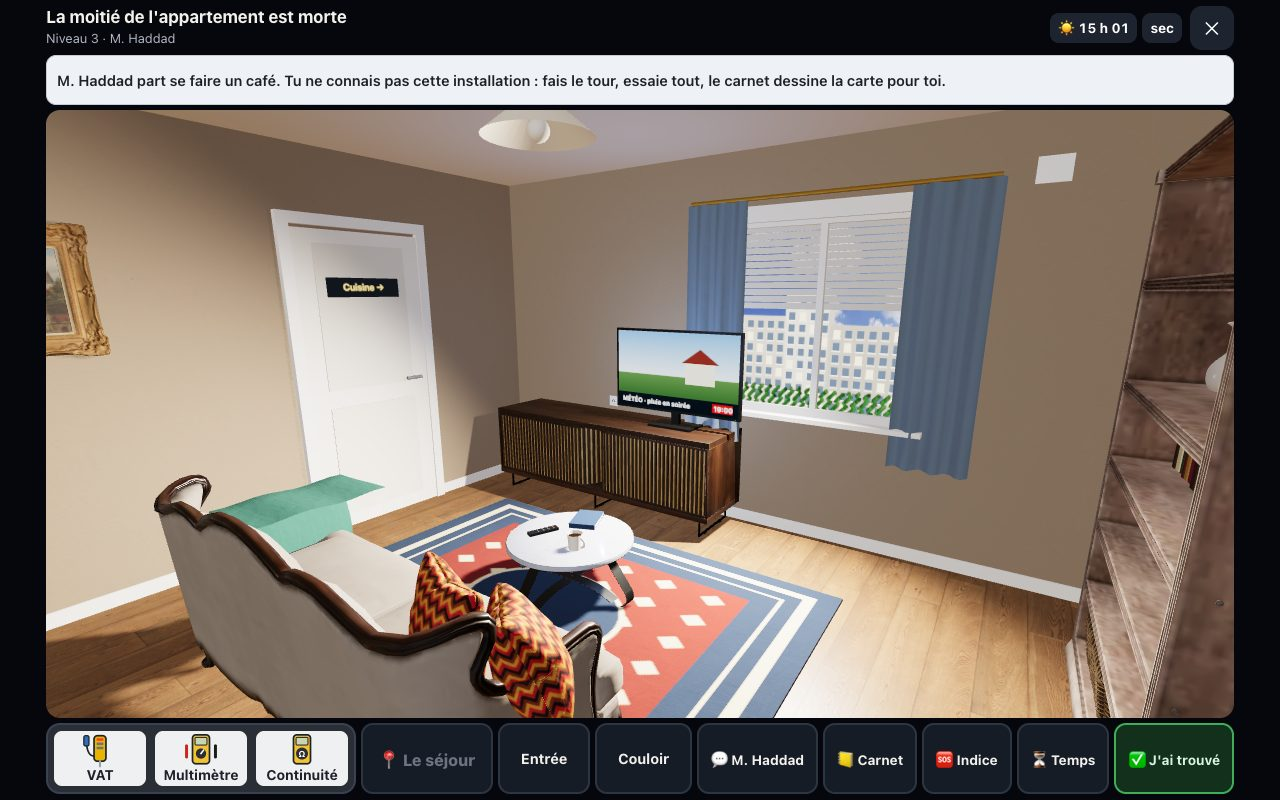
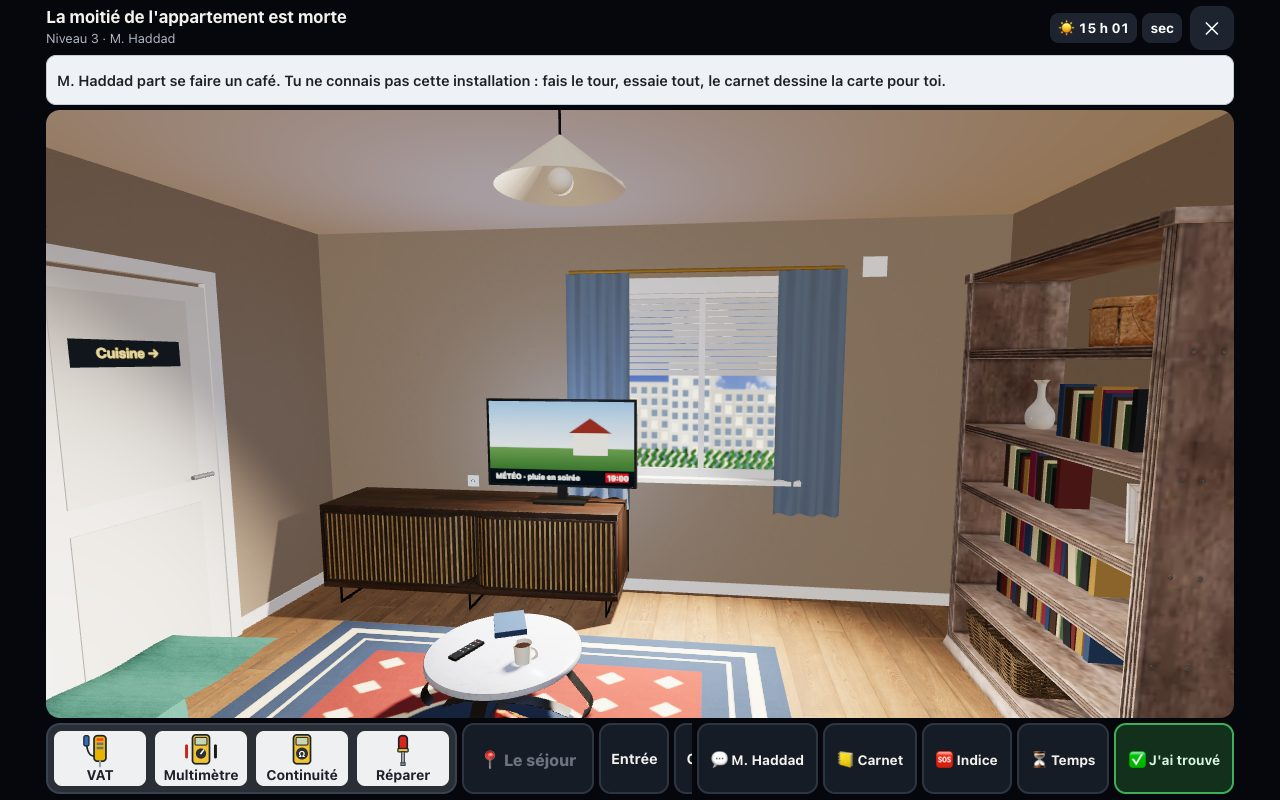
Atelier 3D, niveaux 2 et 3 : défauts relevés à la visite (tâche 12.7)
- arrivée dans chaque lieu : caméra droite, reculée ; séjours (bibliothèque), cuisine, salle de bain et entrée du niveau 3 recadrés
- torchon accroché au meuble (il flottait), réfrigérateur avec poignées et joints, patères et meuble à chaussures visibles à l'arrivée
- fenêtres : un flou léger, et une vue propre à la maison du niveau 6

diff --git a/atelier/3d/niveau/decor.js b/atelier/3d/niveau/decor.js
@@ -66,7 +66,7 @@ export function creerDecor({ base, M, mat, boite, cyl, cible, pbr, P, inst, sour
       g.save(); g.beginPath(); g.moveTo(300, 296); g.lineTo(330, 296); g.lineTo(470, 512); g.lineTo(250, 512); g.closePath(); g.clip(); if (gravier) { g.fillStyle = g.createPattern(gravier, "repeat"); g.fillRect(0, 290, 512, 230); } else { g.fillStyle = "#b9ad98"; g.fillRect(0, 290, 512, 230); } g.restore();
       const om = g.createLinearGradient(0, 296, 0, 512); om.addColorStop(0, "rgba(255,255,255,0.18)"); om.addColorStop(1, "rgba(0,0,0,0.22)"); g.fillStyle = om; g.fillRect(0, 296, 512, 216);
       g.fillStyle = "#23272c"; g.fillRect(412, 372, 9, 52); g.fillStyle = "#f2efe2"; g.fillRect(410, 362, 13, 12); g.fillStyle = "#23272c"; g.fillRect(408, 358, 17, 5);
-      T.t.needsUpdate = true;
+      flouter(T, 1.2);
     });
     return T;
   }
@@ -96,7 +96,7 @@ export function creerDecor({ base, M, mat, boite, cyl, cible, pbr, P, inst, sour
   function vueVille() {
     if (ville) return ville;
     const T = (ville = toile(512, 512)), g = T.g; g.fillStyle = "#cfe3f7"; g.fillRect(0, 0, 512, 512);
-    const im = new Image(); im.onload = () => { g.drawImage(im, 60, 90, 360, 200, 0, 0, 512, 512); dessin(); T.t.needsUpdate = true; }; im.onerror = () => { dessin(); T.t.needsUpdate = true; }; im.src = `${base}../textures/ciel_jour.jpg`;
+    const im = new Image(); im.onload = () => { g.drawImage(im, 60, 90, 360, 200, 0, 0, 512, 512); dessin(); flouter(T, 1.4); }; im.onerror = () => { dessin(); flouter(T, 1.4); }; im.src = `${base}../textures/ciel_jour.jpg`;
     const dessin = () => {
       for (const [x, y, w, c] of [[-20, 250, 190, "#b9b2a4"], [150, 190, 150, "#c9c3b6"], [290, 270, 250, "#a9a396"]]) {
         g.fillStyle = c; g.fillRect(x, y, w, 512 - y); g.fillStyle = "rgba(0,0,0,0.12)"; g.fillRect(x + w - 16, y, 16, 512 - y);
@@ -105,6 +105,23 @@ export function creerDecor({ base, M, mat, boite, cyl, cible, pbr, P, inst, sour
       for (let i = 0; i < 900; i++) { g.fillStyle = `hsl(${95 + (i % 30)}, 38%, ${18 + (i % 16)}%)`; g.beginPath(); g.ellipse((i * 131) % 512, 455 + ((i * 53) % 60), 7, 5, i, 0, 7); g.fill(); }
     };
     dessin(); T.t.needsUpdate = true; return T;
+  }
+  // un flou léger sur ce qu'on voit dehors : la vitre et la distance (sans effet sur les navigateurs qui ne le gèrent pas)
+  const flouter = (T, px = 1.6) => { try { const c2 = document.createElement("canvas"); c2.width = T.c.width; c2.height = T.c.height; const g2 = c2.getContext("2d"); g2.filter = `blur(${px}px)`; g2.drawImage(T.c, 0, 0); T.g.drawImage(c2, 0, 0); } catch { /* rien */ } T.t.needsUpdate = true; };
+  // la vue de la maison de M. Girard (niveau 6) : un lotissement, des toits, une haie, la rue
+  let campagne = null;
+  function vueCampagne() {
+    if (campagne) return campagne;
+    const T = (campagne = toile(512, 512)), g = T.g, ciel = g.createLinearGradient(0, 0, 0, 300); ciel.addColorStop(0, "#9cc4ee"); ciel.addColorStop(1, "#e6f0f8"); g.fillStyle = ciel; g.fillRect(0, 0, 512, 512);
+    for (let i = 0; i < 7; i++) { g.fillStyle = "rgba(255,255,255,0.75)"; g.beginPath(); g.ellipse(40 + i * 75, 60 + ((i * 37) % 70), 46, 15, 0, 0, 7); g.fill(); }
+    g.fillStyle = "#8aa58a"; g.beginPath(); g.moveTo(0, 270); for (let x = 0; x <= 512; x += 32) g.lineTo(x, 252 + Math.sin(x * 0.02) * 16); g.lineTo(512, 330); g.lineTo(0, 330); g.fill();
+    for (const [x, w, h, mur, toit] of [[20, 120, 70, "#e9e2d2", "#8a4a3a"], [170, 150, 84, "#f2ead8", "#5d5f66"], [350, 130, 66, "#e2d9c6", "#8a4a3a"]]) {
+      const y = 330 - h; g.fillStyle = mur; g.fillRect(x, y, w, h); g.fillStyle = toit; g.beginPath(); g.moveTo(x - 10, y); g.lineTo(x + w / 2, y - 46); g.lineTo(x + w + 10, y); g.fill();
+      g.fillStyle = "#5d6d80"; for (let k = 0; k < 2; k++) g.fillRect(x + 18 + k * (w - 58), y + 18, 22, 24); g.fillStyle = "#6b4a3a"; g.fillRect(x + w / 2 - 9, y + h - 34, 18, 34);
+    }
+    g.fillStyle = "#2f4a2a"; g.fillRect(0, 322, 512, 30); for (let i = 0; i < 700; i++) { g.fillStyle = `hsl(${100 + (i % 30)}, 36%, ${18 + (i % 14)}%)`; g.beginPath(); g.ellipse((i * 131) % 512, 318 + ((i * 53) % 34), 6, 4, i, 0, 7); g.fill(); }
+    g.fillStyle = "#6f7a5a"; g.fillRect(0, 352, 512, 60); g.fillStyle = "#8d8f92"; g.fillRect(0, 412, 512, 100); g.fillStyle = "#e6e2d6"; for (let x = 10; x < 512; x += 90) g.fillRect(x, 458, 46, 6);
+    flouter(T); return T;
   }
   const hhmm = (h) => { const m = Math.round(h * 60) % 1440; return `${String(Math.floor(m / 60)).padStart(2, "0")}:${String(m % 60).padStart(2, "0")}`; };
 
@@ -119,7 +136,7 @@ export function creerDecor({ base, M, mat, boite, cyl, cible, pbr, P, inst, sour
       const w = o.w || 1.1, h = o.h || 1.2, pvc = mat(0xf3f1ec, { roughness: 0.45 });
       for (const [bw, bh, x, y] of [[w + 0.1, 0.06, 0, h / 2 + 0.02], [w + 0.1, 0.06, 0, -h / 2 - 0.02], [0.06, h, -w / 2 - 0.02, 0], [0.06, h, w / 2 + 0.02, 0], [0.04, h, 0, 0]]) { const b = boite(bw, bh, 0.05, pvc); b.position.set(x, y, 0.02); g.add(b); }
       const appui = boite(w + 0.24, 0.03, 0.14, pvc); appui.position.set(0, -h / 2 - 0.06, 0.06); g.add(appui);
-      const T = o.vue === "nuit" ? vueNuit() : o.vue === "ville" ? vueVille() : vueJardin();
+      const T = o.vue === "nuit" ? vueNuit() : o.vue === "ville" ? vueVille() : o.vue === "campagne" ? vueCampagne() : vueJardin();
       const vitre = new THREE.Mesh(new THREE.PlaneGeometry(w, h), new THREE.MeshBasicMaterial({ map: T.t })); vitre.position.z = 0.012; g.add(vitre);
       if (o.vue !== "nuit") temoins.push((r, e, lc, nuit) => { vitre.material.color.setScalar(nuit ? 0.035 : 1.7); });
       if (o.volet) { // volet roulant à moitié baissé : des lames, devant la vitre
@@ -482,9 +499,11 @@ tele(o, lieuId, lieu, G, g) { // écran plat sur pied
       temoins.push((r, e) => aff(r.alimente(inst.mobile[o.id].prise) ? (r.fonctionne(o.id) ? "1:30" : hhmm(e.env.heure)) : "")); zone(g, 0.52, 0.3, 0.4, 0.15, o.id, lieuId);
     },
     frigo(o, lieuId, lieu, G, g) {
-      const inox = mat(0xc9ccd0, { metalness: 0.75, roughness: 0.32 }), w = 0.6, d = 0.62;
+      const inox = mat(0xaeb3b9, { metalness: 0.8, roughness: 0.38 }), w = 0.6, d = 0.62;
       const bas = boite(w, 1.08, d, inox); bas.position.y = 0.59; g.add(bas); const hautF = boite(w, 0.62, d, inox); hautF.position.y = 1.46; g.add(hautF); const socle = boite(w - 0.04, 0.05, d - 0.06, M.noir); socle.position.y = 0.025; g.add(socle);
-      for (const y of [0.95, 1.3]) { const p = boite(0.025, 0.3, 0.03, M.acier); p.position.set(-w / 2 + 0.06, y, d / 2 + 0.02); g.add(p); }
+      for (const [y, h] of [[0.86, 0.46], [1.36, 0.3]]) { const p = boite(0.03, h, 0.035, mat(0x3a3f46, { metalness: 0.6, roughness: 0.4 })); p.position.set(-w / 2 + 0.06, y, d / 2 + 0.022); g.add(p); }
+      // les joints des deux portes : un filet sombre entre elles et sur le pourtour
+      for (const [jw, jh, x, y] of [[w, 0.012, 0, 1.14], [0.008, 1.7, -w / 2 + 0.004, 0.92], [0.008, 1.7, w / 2 - 0.004, 0.92]]) { const j = boite(jw, jh, 0.004, M.noir); j.castShadow = false; j.position.set(x, y, d / 2 + 0.001); g.add(j); }
       const aff = ecran(g, 0.07, 0.026, 0.12, 1.66, d / 2 + 0.002, "#9fd8ff"); temoins.push((r) => aff(r.fonctionne(o.id) ? "4°C" : ""));
       for (let i = 0; i < 3; i++) { const a = boite(0.05, 0.05, 0.002, mat([0xe9b400, 0xc8261e, 0x2f6fd0][i])); a.position.set(-0.1 + i * 0.12, 1.4 - i * 0.07, d / 2 + 0.002); a.rotation.z = (i - 1) * 0.12; g.add(a); }
       zone(g, w, 1.8, d, 0.9, o.id, lieuId);

diff --git a/atelier/3d/niveau/niveau3.js b/atelier/3d/niveau/niveau3.js
@@ -118,9 +118,9 @@ export default {
     lieux: {
       // L'appartement de M. Haddad, infirmier de nuit : il dort le jour (volets à moitié baissés), sa tenue attend sur une chaise,
       // sa tasse de café traîne. Les prises, interrupteurs, boîtes et portes sont là où le câblage les met.
-      entree: { nom: "l'entrée", court: "L'entrée", raccourci: "Entrée", taille: [2.6, 2.6], sol: "bois", objets: [
-        { t: "tableau", mur: "N", u: 0.2, y: 1.45 }, { t: "inter", id: "int_entree", mur: "N", u: -0.9, y: 1.1 }, { t: "plafonnier", id: "pl_entree" }, { t: "prise", id: "pc_entree", mur: "O", u: 0.3, y: 0.75 }, porte("couloir", "E", 0.2),
-        { t: "porteEntree", mur: "S", u: 0, y: 0 }, { t: "portemanteau", mur: "O", u: -0.72, y: 1.74 }, { t: "chaussures", mur: "O", u: -0.72, y: 0 },
+      entree: { nom: "l'entrée", court: "L'entrée", raccourci: "Entrée", taille: [2.6, 2.6], sol: "bois", camera: [0.8, 1.62, 0.85], yaw: 0.8, pitch: -0.08, objets: [
+        { t: "tableau", mur: "N", u: 0.2, y: 1.45 }, { t: "inter", id: "int_entree", mur: "N", u: -0.9, y: 1.1 }, { t: "plafonnier", id: "pl_entree" }, { t: "prise", id: "pc_entree", mur: "O", u: -0.85, y: 0.75 }, porte("couloir", "E", 0.2),
+        { t: "porteEntree", mur: "S", u: 0, y: 0 }, { t: "portemanteau", mur: "O", u: 0.2, y: 1.74 }, { t: "chaussures", mur: "O", u: 0.2, y: 0 },
         { t: "tapis", x: 0, z: 0.1, w: 1.5, d: 1.1, couleurs: ["#3f5a4a", "#e2d3ae", "#2f3f55"] },
         { t: "modele", f: "ClassicConsole_01", x: 1.14, z: -0.82, r: -Math.PI / 2, s: 0.6, avec: [
           { t: "cles", x: -0.28, y: 0.572, z: 0.03 }, { t: "courrier", x: 0, y: 0.572, z: 0.02 }, { t: "modele", f: "standing_picture_frame_01", x: 0.28, y: 0.572, z: -0.03, r: -0.3, s: 0.85 } ] },
@@ -132,7 +132,7 @@ export default {
         { t: "tapis", x: -0.1, z: 0, w: 3.9, d: 0.72, couleurs: ["#6b2a26", "#d9c9a3", "#2f3f55"] },
         { t: "modele", f: "fancy_picture_frame_02", mur: "N", u: 1.32, y: 1.62, auMur: true, s: 0.45 }, { t: "modele", f: "fancy_picture_frame_01", mur: "S", u: 1.45, y: 1.62, auMur: true, s: 0.5 },
         { t: "modele", f: "hanging_picture_frame_03", mur: "N", u: -2.0, y: 1.62, auMur: true, s: 0.75 }, { t: "modele", f: "potted_plant_01", x: -2.32, z: 0.6, h: 0.7, sansOmbre: true } ] },
-      sejour: { nom: "le séjour", court: "Le séjour", raccourci: "Séjour", taille: [4.6, 4], sol: "bois", camera: [1.45, 1.62, 1.5], yaw: 0.6, pitch: -0.22, objets: [
+      sejour: { nom: "le séjour", court: "Le séjour", raccourci: "Séjour", taille: [4.6, 4], sol: "bois", camera: [0.45, 1.62, 1.7], yaw: 0.12, pitch: -0.1, objets: [
         { t: "inter", id: "int_sejour", mur: "S", u: -1.4, y: 1.1 }, { t: "plafonnier", id: "pl_sejour" }, { t: "prise", id: "pc_sejour1", mur: "N", u: -1.2, y: 0.75 }, { t: "prise", id: "pc_sejour2", mur: "E", u: 0.8, y: 0.75 }, { t: "boite", id: "bd_a", mur: "N", u: 1.5, y: 2.2 },
         porte("couloir", "S", 0.8), porte("cuisine", "O", 0.6),
         { t: "fenetre", mur: "N", u: 0.42, y: 1.45, w: 1.05, h: 1.15, vue: "ville", volet: 0.45, rideaux: 0x6f7f8f },
@@ -146,7 +146,7 @@ export default {
           { t: "livres", x: 0.2, y: 1.28, w: 0.7, z: 0.02, g: 6, n: 14 }, { t: "modele", f: "ceramic_vase_01", x: -0.38, y: 1.28, z: 0.03, s: 0.6 }, { t: "modele", f: "wicker_basket_02", x: 0.2, y: 1.66, z: 0.02 }, { t: "modele", f: "wicker_basket_01", x: -0.25, y: 0.11, z: 0.05, s: 1.5 } ] },
         { t: "modele", f: "fancy_picture_frame_02", mur: "O", u: -1.0, y: 1.62, auMur: true, s: 0.8 }, { t: "modele", f: "wall_clock", mur: "S", u: -0.45, y: 1.95, auMur: true },
         { t: "modele", f: "potted_plant_02", x: -1.95, z: 1.6, h: 0.85, sansOmbre: true } ] },
-      cuisine: { nom: "la cuisine", court: "La cuisine", raccourci: "Cuisine", taille: [3, 2.8], sol: "carrelage", camera: [0.5, 1.62, 0.95], yaw: 0.28, pitch: -0.2, objets: [
+      cuisine: { nom: "la cuisine", court: "La cuisine", raccourci: "Cuisine", taille: [3, 2.8], sol: "carrelage", camera: [0.3, 1.62, 1.1], yaw: 0, pitch: -0.1, objets: [
         { t: "inter", id: "int_cuisine", mur: "E", u: -0.3, y: 1.1 }, { t: "plafonnier", id: "pl_cuisine" }, { t: "prise", id: "pc_cuisine1", mur: "N", u: -0.9, y: 1.15 }, { t: "prise", id: "pc_cuisine2", mur: "N", u: -0.2, y: 1.15 }, { t: "prise", id: "pc_cuisine3", mur: "O", u: 0.6, y: 1.15 },
         porte("sejour", "E", 0.7),
         { t: "cuisine", mur: "N", u: 0, y: 0, x0: -1.5, segments: [{ k: "bas", w: 0.6, haut: true }, { k: "evier", w: 0.8 }, { k: "tiroirs", w: 0.6, haut: true }, { k: "vide", w: 0.55, hotte: true }] },
@@ -155,7 +155,7 @@ export default {
         { t: "frigo", id: "refrigerateur", x: -1.18, z: 0.42, r: Math.PI / 2 },
         { t: "modele", f: "round_wooden_table_01", x: -0.42, z: 1.0, e: [0.5, 0.75, 0.5], avec: [ { t: "tasse", x: 0.08, y: 0.753, z: 0.05, c: 0x2f5a6b }, { t: "modele", f: "plastic_thermos", x: -0.12, y: 0.753, z: -0.08, s: 0.9 }, { t: "modele", f: "wooden_bowl_02", x: -0.05, y: 0.753, z: 0.16, s: 1.2 } ] },
         { t: "modele", f: "painted_wooden_chair_02", x: 0.02, z: 1.12, r: -Math.PI / 2 - 0.3, s: 0.74 },
-        { t: "modele", f: "pot_enamel_01", x: 0.2, y: 0.93, z: -1.1 }, { t: "modele", f: "jug_01", x: -1.25, y: 0.92, z: -1.15, r: 0.6 }, { t: "torchon", mur: "E", u: -0.85, y: 1.2 } ] },
+        { t: "modele", f: "pot_enamel_01", x: 0.2, y: 0.93, z: -1.1 }, { t: "modele", f: "jug_01", x: -1.25, y: 0.92, z: -1.15, r: 0.6 }, { t: "torchon", x: -0.6, y: 0.62, z: -0.785 } ] },
       chambre1: { nom: "la chambre 1", court: "La chambre 1", raccourci: "Chambre 1", taille: [3.2, 3.2], sol: "bois", camera: [0.85, 1.62, 1.1], yaw: 0.4, pitch: -0.2, objets: [
         { t: "inter", id: "int_chambre1", mur: "S", u: 0.6, y: 1.1 }, { t: "plafonnier", id: "pl_chambre1" }, { t: "prise", id: "pc_chambre1", mur: "N", u: 0.9, y: 0.75 }, porte("couloir", "S", -0.7),
         { t: "fenetre", mur: "O", u: 0.25, y: 1.45, w: 1.0, h: 1.15, vue: "ville", volet: 0.7, rideaux: 0x4f5d73 },
@@ -176,7 +176,7 @@ export default {
         { t: "modele", f: "cardboard_box_01", x: -1.15, z: -1.2, r: 0.3 }, { t: "modele", f: "cardboard_box_01", x: -1.1, y: 0.3, z: -1.22, r: -0.2, s: 0.8 },
         { t: "tapis", x: 0.25, z: 0.2, w: 1.5, d: 1.1, couleurs: ["#2f3f55", "#d9c9a3", "#3f5a4a"] },
         { t: "modele", f: "fancy_picture_frame_01", mur: "S", u: 0.3, y: 1.62, auMur: true, s: 0.55 } ] },
-      sdb: { nom: "la salle de bain", court: "La salle de bain", raccourci: "Salle de bain", taille: [2.4, 2.4], sol: "carrelage", teinte: 0xdce8ea, camera: [-0.2, 1.62, -0.75], yaw: Math.PI, pitch: -0.2, objets: [
+      sdb: { nom: "la salle de bain", court: "La salle de bain", raccourci: "Salle de bain", taille: [2.4, 2.4], sol: "carrelage", teinte: 0xdce8ea, camera: [-0.45, 1.62, -0.85], yaw: -2.25, pitch: -0.1, objets: [
         { t: "inter", id: "int_sdb", mur: "N", u: 0.9, y: 1.1 }, { t: "plafonnier", id: "pl_sdb" }, { t: "boite", id: "bd_sdb", mur: "S", u: 0, y: 2.25, w: 0.1, h: 0.1 }, { t: "prise", id: "pc_sdb", mur: "E", u: 0.5, y: 1.2 }, { t: "prise", id: "pc_lavelinge", mur: "O", u: -0.6, y: 1.2 },
         porte("couloir", "N", -0.2),
         // la douche est au milieu du mur du fond, à distance des deux prises

diff --git a/atelier/3d/niveau/niveau6.js b/atelier/3d/niveau/niveau6.js
@@ -216,10 +216,10 @@ export default {
         porte("entree", "E", 0), porte("sejour", "N", 0.5), porte("chambre1", "N", -1.0), porte("chambre2", "O", 0),
         { t: "tapis", x: -0.1, z: 0, w: 3.6, d: 0.72, couleurs: ["#2f3f55", "#d9c9a3", "#7a2f2a"] }, { t: "peintres", x: 2.05, z: 0.55, r: 2.2 },
         { t: "modele", f: "fancy_picture_frame_02", mur: "S", u: 1.6, y: 1.62, auMur: true, s: 0.45 }, { t: "modele", f: "cardboard_box_01", x: -2.2, z: 0.55, r: 0.2, h: 0.3 } ] },
-      sejour: { nom: "le séjour", court: "Le séjour", raccourci: "Séjour", taille: [4.4, 3.8], sol: "bois", camera: [1.4, 1.62, 1.4], yaw: 0.6, pitch: -0.22, objets: [
+      sejour: { nom: "le séjour", court: "Le séjour", raccourci: "Séjour", taille: [4.4, 3.8], sol: "bois", camera: [0.45, 1.62, 1.6], yaw: 0.12, pitch: -0.1, objets: [
         { t: "inter", id: "int_sejour", mur: "S", u: -1.3, y: 1.1 }, { t: "plafonnier", id: "pl_sejour" }, { t: "prise", id: "pc_sejour1", mur: "N", u: -1.2, y: 0.75 }, { t: "prise", id: "pc_sejour2", mur: "E", u: 0.8, y: 0.75 }, { t: "boite", id: "bd_sej", mur: "N", u: 1.5, y: 2.2 },
         porte("couloir", "S", 0.8),
-        { t: "fenetre", mur: "N", u: 0.4, y: 1.45, w: 1.05, h: 1.15, rideaux: 0x8a6a44 },
+        { t: "fenetre", mur: "N", u: 0.4, y: 1.45, w: 1.05, h: 1.15, vue: "campagne", rideaux: 0x8a6a44 },
         { t: "tapis", x: -0.45, z: -0.3, w: 2.5, d: 1.8, couleurs: ["#6b2a26", "#d9c9a3", "#2f3f55"] },
         { t: "modele", f: "modern_wooden_cabinet", x: -1.05, z: -1.66, e: [0.8, 1, 1], avec: [ { t: "modele", f: "ceramic_vase_01", x: 0.5, y: 0.68, z: 0, s: 0.8 }, { t: "livre", x: 0.1, y: 0.68, z: 0.05, r: 0.3 } ] },
         { t: "modele", f: "sofa_03", x: -0.45, z: 0.5, r: Math.PI, avec: [ { t: "plaid", x: 1.22, y: 0.7, z: 0.1, r: Math.PI / 2, c: 0x8a6a44 } ] },
@@ -228,14 +228,14 @@ export default {
         { t: "modele", f: "potted_plant_02", x: -1.85, z: 1.5, h: 0.85, sansOmbre: true } ] },
       chambre1: { nom: "la chambre 1", court: "La chambre 1", raccourci: "Chambre 1", taille: [3.2, 3.2], sol: "bois", camera: [0.85, 1.62, 1.1], yaw: 0.4, pitch: -0.2, objets: [
         { t: "inter", id: "int_chambre1", mur: "S", u: 0.6, y: 1.1 }, { t: "plafonnier", id: "pl_chambre1" }, { t: "prise", id: "pc_chambre1", mur: "N", u: 0.9, y: 0.75 }, { t: "boite", id: "bd_ch", mur: "E", u: 0.9, y: 2.2 }, porte("couloir", "S", -0.7),
-        { t: "fenetre", mur: "O", u: 0.25, y: 1.45, w: 1.0, h: 1.15, rideaux: 0x5d6f5a },
+        { t: "fenetre", mur: "O", u: 0.25, y: 1.45, w: 1.0, h: 1.15, vue: "campagne", rideaux: 0x5d6f5a },
         { t: "lit", x: -0.6, z: -0.62, w: 1.4, couette: 0x8a6a44, plaid: 0x3f5a4a },
         { t: "modele", f: "painted_wooden_nightstand", x: 0.38, z: -1.33, h: 0.55, avec: [ { t: "lampeChevet", x: -0.06, y: 0.55, z: -0.05, c: 0x3f5a4a }, { t: "livre", x: 0.1, y: 0.55, z: 0.08, r: 0.2 } ] },
         { t: "modele", f: "vintage_wooden_drawer_01", x: 1.33, z: -0.45, r: -Math.PI / 2, e: [0.62, 0.78, 0.5] }, { t: "tapis", x: 0.45, z: 0.3, w: 1.5, d: 1.0, couleurs: ["#3f5a4a", "#e2d3ae", "#7a2f2a"] } ] },
       chambre2: { nom: "la chambre 2", court: "La chambre 2", raccourci: "Chambre 2", taille: [3, 3.2], sol: "bois", objets: [
         { t: "inter", id: "int_chambre2", mur: "E", u: 0.9, y: 1.1 }, { t: "plafonnier", id: "pl_chambre2" }, { t: "prise", id: "pc_chambre2", mur: "N", u: -0.8, y: 0.75 }, porte("couloir", "E", -0.2),
         // la chambre en travaux : bâche, pots, escabeau remplacé par une table de tapissier, cartons
-        { t: "fenetre", mur: "N", u: 0.45, y: 1.55, w: 0.9, h: 0.95, rideaux: false },
+        { t: "fenetre", mur: "N", u: 0.45, y: 1.55, w: 0.9, h: 0.95, vue: "campagne", rideaux: false },
         { t: "modele", f: "wooden_table_02", x: 0.4, z: -1.0, avec: [ { t: "modele", f: "metal_toolbox", x: -0.25, y: 0.8, z: 0 }, { t: "modele", f: "oil_tin", x: 0.3, y: 0.8, z: 0.05 } ] },
         { t: "peintres", x: -0.9, z: 0.4, r: 0.6 }, { t: "peintres", x: 0.9, z: 0.8, r: -1.2 }, { t: "modele", f: "cardboard_box_01", x: -1.15, z: -1.2, r: 0.3 }, { t: "modele", f: "cardboard_box_01", x: -1.1, y: 0.3, z: -1.22, r: -0.2, s: 0.8 },
         { t: "modele", f: "steel_frame_shelves_03", x: -1.26, z: 0.9, r: Math.PI / 2, s: 0.6 } ] },

diff --git a/atelier/3d/niveau/niveau4.js b/atelier/3d/niveau/niveau4.js
@@ -140,7 +140,7 @@ export default {
         { t: "modele", f: "ornate_mirror_01", mur: "E", u: -0.7, y: 1.45, auMur: true, s: 0.9 }, { t: "modele", f: "fancy_picture_frame_01", mur: "N", u: 0.1, y: 1.62, auMur: true, s: 0.5 },
         { t: "modele", f: "rubber_boots", x: 0.85, z: 1.22, s: 0.9, e: [0.55, 1, 1], r: Math.PI } ] },
       // le séjour et la cuisine : la famille vit en bas ; la plaque de cuisson du tableau est ici
-      sejour: { nom: "le séjour", court: "Le séjour", raccourci: "Séjour", taille: [4.6, 4], sol: "bois", camera: [1.45, 1.62, 1.5], yaw: 0.6, pitch: -0.22, objets: [
+      sejour: { nom: "le séjour", court: "Le séjour", raccourci: "Séjour", taille: [4.6, 4], sol: "bois", camera: [0.45, 1.62, 1.7], yaw: 0.12, pitch: -0.1, objets: [
         { t: "inter", id: "int_sejour", mur: "S", u: -1.4, y: 1.1 }, { t: "plafonnier", id: "pl_sejour" }, { t: "prise", id: "pc_sejour", mur: "N", u: -1.9, y: 0.75 },
         porte("entree", "S", 0.8), porte("cuisine", "O", 0.6),
         { t: "fenetre", mur: "N", u: 0.6, y: 1.45, w: 1.2, h: 1.15, vue: "nuit", rideaux: 0x8a5a3a },
@@ -153,7 +153,7 @@ export default {
           { t: "modele", f: "wicker_basket_02", x: 0.2, y: 1.66, z: 0.02 }, { t: "modele", f: "wicker_basket_01", x: -0.25, y: 0.11, z: 0.05, s: 1.5 } ] },
         { t: "modele", f: "fancy_picture_frame_02", mur: "E", u: 1.2, y: 1.62, auMur: true, s: 0.8 }, { t: "modele", f: "wall_clock", mur: "S", u: -0.45, y: 1.95, auMur: true },
         { t: "modele", f: "potted_plant_02", x: -1.95, z: 1.6, h: 0.85, sansOmbre: true } ] },
-      cuisine: { nom: "la cuisine", court: "La cuisine", raccourci: "Cuisine", taille: [3.2, 2.8], sol: "carrelage", camera: [0.5, 1.62, 0.95], yaw: 0.28, pitch: -0.2, objets: [
+      cuisine: { nom: "la cuisine", court: "La cuisine", raccourci: "Cuisine", taille: [3.2, 2.8], sol: "carrelage", camera: [0.45, 1.62, 1.1], yaw: 0, pitch: -0.1, objets: [
         { t: "inter", id: "int_cuisine", mur: "E", u: -0.3, y: 1.1 }, { t: "plafonnier", id: "pl_cuisine" }, { t: "prise", id: "pc_cuisine", mur: "O", u: 0.55, y: 1.15 },
         porte("sejour", "E", 0.7),
         { t: "cuisine", mur: "N", u: 0, y: 0, x0: -1.6, segments: [{ k: "bas", w: 0.6, haut: true }, { k: "evier", w: 0.8 }, { k: "tiroirs", w: 0.6, haut: true }, { k: "vide", w: 0.6, hotte: true }, { k: "bas", w: 0.6, haut: true }] },
@@ -162,7 +162,7 @@ export default {
         { t: "frigo", id: "refrigerateur", x: -1.28, z: 0.42, r: Math.PI / 2 },
         { t: "modele", f: "round_wooden_table_01", x: -0.3, z: 0.85, e: [0.62, 0.75, 0.62], avec: [ { t: "tasse", x: 0.12, y: 0.753, z: 0.05, c: 0xa8553f }, { t: "modele", f: "wooden_bowl_02", x: -0.1, y: 0.753, z: 0.12, s: 1.2 }, { t: "livre", x: 0.05, y: 0.753, z: -0.2, r: 0.5, c: 0x3f5a8a } ] },
         { t: "modele", f: "painted_wooden_chair_02", x: 0.3, z: 0.95, r: -Math.PI / 2 - 0.3, s: 0.74 }, { t: "modele", f: "painted_wooden_chair_02", x: -0.4, z: 0.25, r: 0.2, s: 0.74 },
-        { t: "modele", f: "pot_enamel_01", x: 0.62, y: 0.93, z: -1.1 }, { t: "modele", f: "jug_01", x: -1.35, y: 0.92, z: -1.15, r: 0.6 }, { t: "torchon", mur: "E", u: -0.85, y: 1.2 } ] },
+        { t: "modele", f: "pot_enamel_01", x: 0.62, y: 0.93, z: -1.1 }, { t: "modele", f: "jug_01", x: -1.35, y: 0.92, z: -1.15, r: 0.6 }, { t: "torchon", x: -0.5, y: 0.62, z: -0.785 } ] },
       // l'escalier de la maison : une vraie cage à deux volées, de l'entrée au palier (cage.js) ; on la monte marche après marche
       escalier: { nom: "le pied de l'escalier", court: "L'escalier", raccourci: "Escalier", ensemble: "cage", coque: false, pos: [0, 0, 0], taille: [2.6, LE], h: 2.6, camera: [0, 1.62, LE / 2 - 0.45], pitch: 0.05, objets: [
         { t: "cageEtage", sol: "bois", marches: "bois", soubassement: false, sousEscalier: true }, monter("palier", LE),

diff --git a/atelier/3d/niveau/niveau2.js b/atelier/3d/niveau/niveau2.js
@@ -36,7 +36,7 @@ export default {
           { t: "cles", x: -0.36, y: 0.715, z: 0.04 }, { t: "courrier", x: -0.05, y: 0.715, z: 0.02 }, { t: "modele", f: "standing_picture_frame_01", x: 0.38, y: 0.715, z: -0.04, r: -0.3 }, { t: "modele", f: "potted_plant_04", x: 0.2, y: 0.715, z: 0.04 } ] },
         { t: "modele", f: "ornate_mirror_01", mur: "E", u: -0.8, y: 1.52, auMur: true, s: 1.35 }, { t: "modele", f: "hanging_picture_frame_01", mur: "E", u: 1.15, y: 1.55, auMur: true, s: 0.7 },
         { t: "modele", f: "potted_plant_01", x: 1.5, z: -1.18 }, { t: "modele", f: "fancy_picture_frame_01", mur: "N", u: 0.22, y: 1.68, auMur: true, s: 0.75 } ] },
-      sejour: { nom: "le séjour", court: "Le séjour", raccourci: "Séjour", taille: [5, 4.2], sol: "bois", camera: [1.75, 1.62, 1.75], yaw: 0.62, pitch: -0.24, objets: [
+      sejour: { nom: "le séjour", court: "Le séjour", raccourci: "Séjour", taille: [5, 4.2], sol: "bois", camera: [0.5, 1.62, 1.8], yaw: 0.12, pitch: -0.1, objets: [
         { t: "inter", id: "int_sejour", mur: "O", u: -0.2, y: 1.1 }, { t: "plafonnier", id: "pl_sejour" }, { t: "prise", id: "pc_sejour1", mur: "N", u: -1.3, y: 0.78 }, { t: "prise", id: "pc_sejour2", mur: "N", u: 1.6, y: 0.35 },
         { t: "porte", vers: "entree", mur: "O", u: 1.2, y: 1.025 }, { t: "porte", vers: "cuisine", mur: "E", u: -1.2, y: 1.025 }, { t: "porte", vers: "terrasse", mur: "S", u: 0.9, y: 1.025 },
         { t: "fenetre", mur: "N", u: 0.9, y: 1.45, w: 1.15, h: 1.15 },
@@ -54,7 +54,7 @@ export default {
         { t: "modele", f: "hanging_picture_frame_02", mur: "N", u: -1.2, y: 1.8, auMur: true }, { t: "modele", f: "wall_clock", mur: "N", u: 2.15, y: 1.95, auMur: true },
         { t: "modele", f: "hanging_picture_frame_01", mur: "O", u: -1.25, y: 1.6, auMur: true, s: 0.8 }, { t: "modele", f: "fancy_picture_frame_01", mur: "E", u: 0.75, y: 2.25, auMur: true, s: 0.6 },
         { t: "modele", f: "potted_plant_01", x: -2.1, z: 1.7 } ] },
-      cuisine: { nom: "la cuisine", court: "La cuisine", raccourci: "Cuisine", taille: [3.2, 3], sol: "carrelage", camera: [0.4, 1.62, 1.05], objets: [
+      cuisine: { nom: "la cuisine", court: "La cuisine", raccourci: "Cuisine", taille: [3.2, 3], sol: "carrelage", camera: [0.25, 1.62, 1.2], yaw: 0, pitch: -0.1, objets: [
         { t: "inter", id: "int_cuisine", mur: "O", u: 0.2, y: 1.1 }, { t: "plafonnier", id: "pl_cuisine" },
         { t: "prise", id: "pc_cuisine1", mur: "N", u: -1.3, y: 1.15 }, { t: "prise", id: "pc_cuisine2", mur: "N", u: 0.1, y: 1.15 }, { t: "prise", id: "pc_cuisine3", mur: "N", u: 1.3, y: 1.15 }, { t: "prise", id: "pc_cuisine4", mur: "E", u: -0.3, y: 1.15 },
         { t: "porte", vers: "sejour", mur: "O", u: -1.0, y: 1.025 },
@@ -66,7 +66,7 @@ export default {
         { t: "torchon", x: 0.675, y: 0.62, z: -0.82 },
         { t: "frigo", id: "refrigerateur", x: 1.28, z: 0.6, r: -Math.PI / 2 },
         { t: "modele", f: "dining_table", x: -1.1, z: -0.05, r: Math.PI / 2, e: [0.467, 0.93, 0.5], avec: [ { t: "modele", f: "wooden_bowl_02", x: 0.1, y: 0.755, z: 0, s: 2.2 }, { t: "modele", f: "tea_set_01", x: -0.25, y: 0.755, z: 0.05, s: 0.4 } ] },
-        { t: "modele", f: "dining_chair_02", x: -0.52, z: -0.32, r: -Math.PI / 2 }, { t: "modele", f: "dining_chair_02", x: -0.5, z: 0.25, r: -Math.PI / 2 - 0.25 },
+        { t: "modele", f: "dining_chair_02", x: -0.52, z: -0.32, r: -Math.PI / 2 }, { t: "modele", f: "dining_chair_02", x: -0.55, z: 0.3, r: -Math.PI / 2 - 0.25 },
         { t: "cadreTexte", mur: "E", u: -0.85, y: 1.6, titre: "NOVEMBRE" } ] },
       cellier: { nom: "le cellier", court: "Le cellier", raccourci: "Cellier", taille: [2.8, 3], sol: "beton", camera: [-0.15, 1.62, 1.1], yaw: -0.12, objets: [
         { t: "inter", id: "int_cellier", mur: "E", u: 0.2, y: 1.1 }, { t: "plafonnier", id: "pl_cellier" },

diff --git a/atelier/3d/niveau/monde.js b/atelier/3d/niveau/monde.js
@@ -328,7 +328,7 @@ export function creerMonde(renderer, base, N, P) {
       const pl = new THREE.Mesh(new THREE.PlaneGeometry(lx, lz), lieu.murs === "beton" ? pbr.m("concrete_floor_02", [lx / 1.5, lz / 1.5], { roughness: 1 }) : M.plafond); pl.rotation.x = Math.PI / 2; pl.position.y = lieu.h; G.add(pl);
     }
     lieux[id] = { G, lieu, lampes: [] };
-    vues[id] = { lieu: id, parent: null, libre: true, nom: lieu.nom, court: lieu.court, lieuRaccourci: lieu.raccourci, cadre: () => ({ pos: G.localToWorld(V(...(lieu.camera || [0, 1.62, lz / 2 - 0.5]))), yaw: lieu.yaw || 0, pitch: lieu.pitch || -0.12 }) };
+    vues[id] = { lieu: id, parent: null, libre: true, nom: lieu.nom, court: lieu.court, lieuRaccourci: lieu.raccourci, cadre: () => ({ pos: G.localToWorld(V(...(lieu.camera || [0, 1.62, lz / 2 - 0.5]))), yaw: lieu.yaw || 0, pitch: lieu.sombre && lieu.h < 1.5 ? lieu.pitch || -0.12 : Math.max(-0.1, lieu.pitch === undefined ? -0.08 : lieu.pitch) }) };
     for (const o of lieu.objets) {
       if (o.si && !o.si(P)) continue;
       const g = new THREE.Group(); G.add(g);
